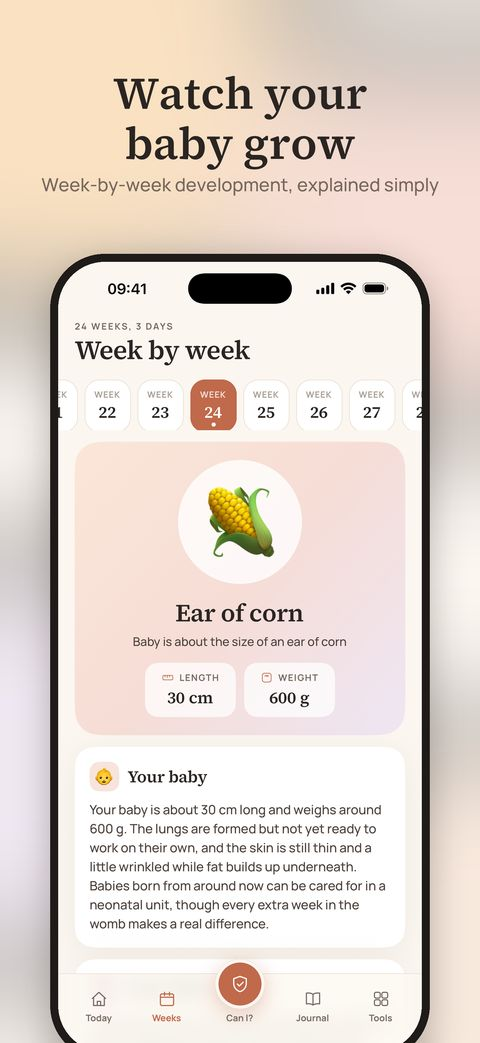
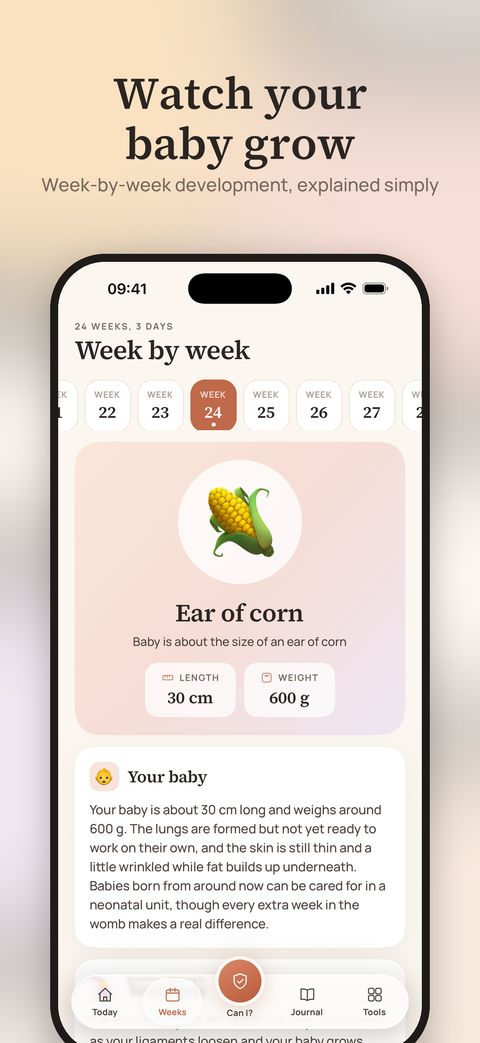
Website: landing page in six languages with screenshots

Changed region(s): [[0.1875, 0.9204, 0.8125, 1.0], [0.8438, 0.9511, 0.875, 0.9818], [0.125, 0.9511, 0.1562, 0.9818]]

diff --git a/docs/fr/index.html b/docs/fr/index.html
@@ -4,19 +4,60 @@
 <meta charset="utf-8">
 <meta name="viewport" content="width=device-width, initial-scale=1">
 <title>Marigold · Suivi de grossesse</title>
-<meta name="description" content="Marigold est un compagnon de grossesse serein et privé : un suivi semaine après semaine, une bibliothèque « Puis-je… ? » aux réponses sourcées, un guide des symptômes et des outils de suivi tout doux. Sans pub, sans compte.">
+<meta name="description" content="Une compagne de grossesse apaisante et privée : repères semaine par semaine, 270+ réponses sourcées à « Puis-je… ? », un guide des symptômes et des outils tout en douceur. Sans pub, sans compte.">
+<meta name="apple-itunes-app" content="app-id=6822443743">
+<meta property="og:type" content="website">
+<meta property="og:title" content="Marigold · Suivi de grossesse">
+<meta property="og:description" content="Une compagne de grossesse apaisante et privée : repères semaine par semaine, 270+ réponses sourcées à « Puis-je… ? », un guide des symptômes et des outils tout en douceur. Sans pub, sans compte.">
+<meta property="og:image" content="https://babybloom.kids/marigold/img/fr/hero.jpg">
 <link rel="icon" href="../icon-256.png">
+<link rel="apple-touch-icon" href="../icon-256.png">
 <link rel="stylesheet" href="../style.css">
 </head>
-<body>
-<div class="wrap">
-  <header><img src="../icon-256.png" alt="Icône de Marigold"><div><div class="brand">Marigold</div><div class="sub">Suivi de grossesse</div></div></header>
-  <nav><a href="privacy.html">Confidentialité</a><a href="terms.html">Conditions</a><a href="support.html">Assistance</a></nav>
+<body class="landing">
+<div class="wrap wide">
+  <header><a href="index.html"><img src="../icon-256.png" alt="Marigold"></a><div><div class="brand">Marigold</div><div class="sub">Suivi de grossesse</div></div></header>
+  <nav><a href="index.html">Accueil</a><a href="privacy.html">Confidentialité</a><a href="terms.html">Conditions</a><a href="support.html">Assistance</a></nav>
   <p class="langs"><a href="../index.html">English</a> · <a href="../tr/index.html">Türkçe</a> · <a href="../es/index.html">Español</a> · <a href="../de/index.html">Deutsch</a> · <strong>Français</strong> · <a href="../pt/index.html">Português</a></p>
-  <h1>Un compagnon serein pour les neuf prochains mois.</h1>
-  <p>Un suivi semaine après semaine, une bibliothèque de sécurité « Puis-je… ? » avec 270+ réponses sourcées, un guide des symptômes « Est-ce normal ? » et des outils de suivi tout doux — compteur de mouvements, minuteur de contractions, rendez-vous, journal du ventre et plus encore. Sans pub. Sans compte. Tes données restent sur ton téléphone.</p>
-  <p class="mute">Disponible en English, Türkçe, Español, Deutsch, Français et Português (Brasil). Marigold partage des informations générales, pas des conseils médicaux — suis toujours les recommandations de ta sage-femme ou de ton médecin.</p>
-  <footer>© 2026 Okan Berk Manavoğlu · <a href="mailto:support@babybloom.kids">support@babybloom.kids</a></footer>
+
+  <section class="hero">
+    <div class="hero-text">
+      <h1>Une compagne apaisante pour les neuf mois à venir.</h1>
+      <p class="lead">Des repères semaine par semaine, des réponses claires à « Puis-je… ? » avec de vraies sources et des outils tout doux pour chaque jour — le tout en privé, directement sur ton iPhone.</p>
+      <a class="store" href="https://apps.apple.com/app/id6822443743">Télécharger dans l’App Store</a>
+      <p class="mute">Gratuit · iPhone · Aucun compte requis</p>
+    </div>
+    <div class="phone"><img src="../img/fr/hero.jpg" alt="Écran de l’app Marigold" width="600" height="1304"></div>
+  </section>
+
+  <h2 class="center">Tout ce qu’il te faut, réuni en douceur</h2>
+  <div class="features">
+      <div class="feature"><div class="ficon">🌱</div><h3>Semaine après semaine</h3><p>La taille de ton bébé, ce qui se développe, ce que tu peux ressentir et trois conseils pratiques pour chaque semaine, de 1 à 42.</p></div>
+      <div class="feature"><div class="ficon">🛡</div><h3>Réponses à « Puis-je… ? »</h3><p>270+ aliments, médicaments, produits de beauté et activités — chacun avec un verdict clair, son explication et des liens vers les recommandations sur lesquelles il s’appuie.</p></div>
+      <div class="feature"><div class="ficon">🩺</div><h3>Est-ce normal ?</h3><p>55 symptômes courants expliqués avec calme, avec ce qui soulage et des signes clairs pour savoir quand appeler ta sage-femme, ton médecin ou les secours.</p></div>
+      <div class="feature"><div class="ficon">⏱</div><h3>Des outils tout doux</h3><p>Compteur de mouvements et minuteur de contractions avec les Activités en direct sur l’écran verrouillé, plus des widgets, rendez-vous, hydratation, vitamines et bien plus.</p></div>
+      <div class="feature"><div class="ficon">📔</div><h3>Un journal privé</h3><p>Photos de ton ventre, humeurs, notes et lettres à ton bébé. Aucun compte — ton journal ne quitte jamais ton téléphone.</p></div>
+      <div class="feature"><div class="ficon">🌍</div><h3>Adapté à ton pays</h3><p>En English, Türkçe, Español, Deutsch, Français et Português, avec des aliments locaux, les recommandations nationales et le numéro d’urgence de ton pays.</p></div>
+  </div>
+
+  <h2 class="center">De plus près</h2>
+  <div class="shots">
+      <img src="../img/fr/02-weeks.jpg" alt="Écran de l’app Marigold" loading="lazy" width="480" height="1043">
+      <img src="../img/fr/03-check.jpg" alt="Écran de l’app Marigold" loading="lazy" width="480" height="1043">
+      <img src="../img/fr/04-detail.jpg" alt="Écran de l’app Marigold" loading="lazy" width="480" height="1043">
+      <img src="../img/fr/05-tools.jpg" alt="Écran de l’app Marigold" loading="lazy" width="480" height="1043">
+      <img src="../img/fr/06-journal.jpg" alt="Écran de l’app Marigold" loading="lazy" width="480" height="1043">
+  </div>
+
+  <div class="grid2">
+    <div class="card"><h3>🔒 Privé dès la conception</h3><p>Ni publicité, ni statistiques, ni pistage, ni compte. Tout ce que tu saisis reste sur ton appareil. Les achats sont gérés par Apple, avec un identifiant anonyme pour les confirmer.</p></div>
+    <div class="card"><h3>✨ Marigold Plus — en option</h3><p>Les fonctions essentielles sont gratuites. Plus ajoute un rapport PDF prêt pour ton médecin, ton journal en livre souvenir et un collage de photos de ton ventre — en abonnement mensuel avec essai gratuit, ou avec le Pregnancy Pass en achat unique.</p></div>
+  </div>
+
+  <p class="card disclaimer">Marigold partage des informations générales issues des recommandations de santé publique. Ce n’est ni un avis médical ni un dispositif médical. Suis toujours les conseils de ta sage-femme ou de ton médecin et, en cas d’urgence, appelle le numéro d’urgence local.</p>
+  <p class="sister">Par les créateurs de Baby Bloom — un compagnon tout en douceur pour la vie avec ton nouveau-né. <a href="https://babybloom.kids/">Découvrir Baby Bloom →</a></p>
+
+  <footer>© 2026 Okan Berk Manavoğlu · <a href="privacy.html">Confidentialité</a> · <a href="terms.html">Conditions</a> · <a href="support.html">Assistance</a> · <a href="mailto:support@babybloom.kids">support@babybloom.kids</a></footer>
 </div>
 </body>
 </html>

diff --git a/docs/de/index.html b/docs/de/index.html
@@ -3,20 +3,61 @@
 <head>
 <meta charset="utf-8">
 <meta name="viewport" content="width=device-width, initial-scale=1">
-<title>Marigold · Schwangerschafts-Tracker</title>
-<meta name="description" content="Marigold ist eine ruhige, private Begleitung durch deine Schwangerschaft: Infos Woche für Woche, eine „Darf ich…?“-Sicherheitsbibliothek mit Quellen, ein Ratgeber zu Beschwerden und sanfte Tracker. Ohne Werbung, ohne Konto.">
+<title>Marigold · Schwangerschaft</title>
+<meta name="description" content="Deine ruhige, private Schwangerschaftsbegleitung: Infos Woche für Woche, 270+ Antworten mit Quellen auf „Darf ich …?“, ein Symptom-Ratgeber und sanfte Tracker. Keine Werbung, kein Konto.">
+<meta name="apple-itunes-app" content="app-id=6822443743">
+<meta property="og:type" content="website">
+<meta property="og:title" content="Marigold · Schwangerschaft">
+<meta property="og:description" content="Deine ruhige, private Schwangerschaftsbegleitung: Infos Woche für Woche, 270+ Antworten mit Quellen auf „Darf ich …?“, ein Symptom-Ratgeber und sanfte Tracker. Keine Werbung, kein Konto.">
+<meta property="og:image" content="https://babybloom.kids/marigold/img/de/hero.jpg">
 <link rel="icon" href="../icon-256.png">
+<link rel="apple-touch-icon" href="../icon-256.png">
 <link rel="stylesheet" href="../style.css">
 </head>
-<body>
-<div class="wrap">
-  <header><img src="../icon-256.png" alt="Marigold-Symbol"><div><div class="brand">Marigold</div><div class="sub">Schwangerschafts-Tracker</div></div></header>
-  <nav><a href="privacy.html">Datenschutz</a><a href="terms.html">Nutzungsbedingungen</a><a href="support.html">Support</a></nav>
+<body class="landing">
+<div class="wrap wide">
+  <header><a href="index.html"><img src="../icon-256.png" alt="Marigold"></a><div><div class="brand">Marigold</div><div class="sub">Schwangerschaft</div></div></header>
+  <nav><a href="index.html">Start</a><a href="privacy.html">Datenschutz</a><a href="terms.html">Nutzungsbedingungen</a><a href="support.html">Support</a></nav>
   <p class="langs"><a href="../index.html">English</a> · <a href="../tr/index.html">Türkçe</a> · <a href="../es/index.html">Español</a> · <strong>Deutsch</strong> · <a href="../fr/index.html">Français</a> · <a href="../pt/index.html">Português</a></p>
-  <h1>Eine ruhige Begleitung für die nächsten neun Monate.</h1>
-  <p>Infos Woche für Woche, eine „Darf ich…?“-Sicherheitsbibliothek mit 270+ Antworten samt Quellen, ein „Ist das normal?“-Ratgeber zu Beschwerden und sanfte Tracker – Kick-Zähler, Wehen-Timer, Termine, Babybauch-Tagebuch und mehr. Keine Werbung. Kein Konto. Deine Daten bleiben auf deinem Handy.</p>
-  <p class="mute">Verfügbar in English, Türkçe, Español, Deutsch, Français und Português (Brasil). Marigold bietet allgemeine Informationen, keine medizinische Beratung – folge immer dem Rat deiner Hebamme, deiner Ärztin oder deines Arztes.</p>
-  <footer>© 2026 Okan Berk Manavoğlu · <a href="mailto:support@babybloom.kids">support@babybloom.kids</a></footer>
+
+  <section class="hero">
+    <div class="hero-text">
+      <h1>Eine ruhige Begleitung für die nächsten neun Monate.</h1>
+      <p class="lead">Begleitung Woche für Woche, klare Antworten auf „Darf ich …?“ mit echten Quellen und sanfte Helfer für jeden Tag – alles privat, direkt auf deinem iPhone.</p>
+      <a class="store" href="https://apps.apple.com/app/id6822443743">Laden im App Store</a>
+      <p class="mute">Kostenlos nutzbar · iPhone · Kein Konto nötig</p>
+    </div>
+    <div class="phone"><img src="../img/de/hero.jpg" alt="Bildschirm der Marigold-App" width="600" height="1304"></div>
+  </section>
+
+  <h2 class="center">Alles, was du brauchst – sanft an einem Ort</h2>
+  <div class="features">
+      <div class="feature"><div class="ficon">🌱</div><h3>Woche für Woche</h3><p>Wie groß dein Baby ist, was sich gerade entwickelt, was du spüren könntest und drei praktische Tipps – für jede Woche von 1 bis 42.</p></div>
+      <div class="feature"><div class="ficon">🛡</div><h3>„Darf ich …?“ beantwortet</h3><p>270+ Lebensmittel, Medikamente, Beautyprodukte und Aktivitäten – jeweils mit klarer Einschätzung, Begründung und Links zu den Empfehlungen dahinter.</p></div>
+      <div class="feature"><div class="ficon">🩺</div><h3>Ist das normal?</h3><p>55 häufige Beschwerden ruhig erklärt – mit dem, was hilft, und klaren Zeichen, wann du deine Hebamme, deine Arztpraxis oder den Notruf anrufen solltest.</p></div>
+      <div class="feature"><div class="ficon">⏱</div><h3>Sanfte Helfer</h3><p>Kick-Zähler und Wehen-Timer mit Live-Aktivitäten auf dem Sperrbildschirm, dazu Widgets, Termine, Wasser, Vitamine und mehr.</p></div>
+      <div class="feature"><div class="ficon">📔</div><h3>Ein privates Tagebuch</h3><p>Bauchfotos, Stimmungen, Notizen und Briefe an dein Baby. Es gibt kein Konto – dein Tagebuch verlässt nie dein Handy.</p></div>
+      <div class="feature"><div class="ficon">🌍</div><h3>Passend zu deinem Land</h3><p>Auf English, Türkçe, Español, Deutsch, Français und Português – mit regionalen Lebensmitteln, nationalen Empfehlungen und der Notrufnummer deines Landes.</p></div>
+  </div>
+
+  <h2 class="center">Ein genauerer Blick</h2>
+  <div class="shots">
+      <img src="../img/de/02-weeks.jpg" alt="Bildschirm der Marigold-App" loading="lazy" width="480" height="1043">
+      <img src="../img/de/03-check.jpg" alt="Bildschirm der Marigold-App" loading="lazy" width="480" height="1043">
+      <img src="../img/de/04-detail.jpg" alt="Bildschirm der Marigold-App" loading="lazy" width="480" height="1043">
+      <img src="../img/de/05-tools.jpg" alt="Bildschirm der Marigold-App" loading="lazy" width="480" height="1043">
+      <img src="../img/de/06-journal.jpg" alt="Bildschirm der Marigold-App" loading="lazy" width="480" height="1043">
+  </div>
+
+  <div class="grid2">
+    <div class="card"><h3>🔒 Privat von Grund auf</h3><p>Keine Werbung, keine Analysen, kein Tracking und kein Konto. Alles, was du eingibst, bleibt auf deinem Gerät. Käufe wickelt Apple ab; zur Bestätigung dient eine anonyme ID.</p></div>
+    <div class="card"><h3>✨ Marigold Plus – optional</h3><p>Die Grundfunktionen sind kostenlos. Plus ergänzt einen PDF-Bericht für deinen Arzttermin, dein Tagebuch als Erinnerungsbuch und eine Collage deiner Bauchfotos – monatlich mit kostenloser Testphase oder einmalig als Pregnancy Pass.</p></div>
+  </div>
+
+  <p class="card disclaimer">Marigold bietet allgemeine Informationen auf Grundlage öffentlicher Gesundheitsempfehlungen. Es ist keine medizinische Beratung und kein Medizinprodukt. Folge immer den Empfehlungen deiner Hebamme oder deiner Ärztin bzw. deines Arztes und wähle im Notfall die örtliche Notrufnummer.</p>
+  <p class="sister">Von den Machern von Baby Bloom – eine sanfte Begleitung für das Leben mit deinem Neugeborenen. <a href="https://babybloom.kids/">Baby Bloom entdecken →</a></p>
+
+  <footer>© 2026 Okan Berk Manavoğlu · <a href="privacy.html">Datenschutz</a> · <a href="terms.html">Nutzungsbedingungen</a> · <a href="support.html">Support</a> · <a href="mailto:support@babybloom.kids">support@babybloom.kids</a></footer>
 </div>
 </body>
 </html>

diff --git a/docs/pt/index.html b/docs/pt/index.html
@@ -3,20 +3,61 @@
 <head>
 <meta charset="utf-8">
 <meta name="viewport" content="width=device-width, initial-scale=1">
-<title>Marigold · Acompanhamento da gravidez</title>
-<meta name="description" content="O Marigold é uma companhia tranquila e privada para a sua gravidez: orientação semana a semana, uma biblioteca de segurança “Posso…?” com fontes, um guia de sintomas e registros leves. Sem anúncios, sem conta.">
+<title>Marigold · Gravidez e Bebê</title>
+<meta name="description" content="Uma companhia tranquila e privada na gravidez: orientações semana a semana, 270+ respostas com fontes para “Posso…?”, um guia de sintomas e ferramentas gentis. Sem anúncios, sem conta.">
+<meta name="apple-itunes-app" content="app-id=6822443743">
+<meta property="og:type" content="website">
+<meta property="og:title" content="Marigold · Gravidez e Bebê">
+<meta property="og:description" content="Uma companhia tranquila e privada na gravidez: orientações semana a semana, 270+ respostas com fontes para “Posso…?”, um guia de sintomas e ferramentas gentis. Sem anúncios, sem conta.">
+<meta property="og:image" content="https://babybloom.kids/marigold/img/pt/hero.jpg">
 <link rel="icon" href="../icon-256.png">
+<link rel="apple-touch-icon" href="../icon-256.png">
 <link rel="stylesheet" href="../style.css">
 </head>
-<body>
-<div class="wrap">
-  <header><img src="../icon-256.png" alt="Ícone do Marigold"><div><div class="brand">Marigold</div><div class="sub">Acompanhamento da gravidez</div></div></header>
-  <nav><a href="privacy.html">Privacidade</a><a href="terms.html">Termos</a><a href="support.html">Suporte</a></nav>
+<body class="landing">
+<div class="wrap wide">
+  <header><a href="index.html"><img src="../icon-256.png" alt="Marigold"></a><div><div class="brand">Marigold</div><div class="sub">Gravidez e Bebê</div></div></header>
+  <nav><a href="index.html">Início</a><a href="privacy.html">Privacidade</a><a href="terms.html">Termos</a><a href="support.html">Suporte</a></nav>
   <p class="langs"><a href="../index.html">English</a> · <a href="../tr/index.html">Türkçe</a> · <a href="../es/index.html">Español</a> · <a href="../de/index.html">Deutsch</a> · <a href="../fr/index.html">Français</a> · <strong>Português</strong></p>
-  <h1>Uma companhia tranquila para os próximos nove meses.</h1>
-  <p>Orientação semana a semana, uma biblioteca de segurança “Posso…?” com 270+ respostas com fontes, um guia de sintomas “Isso é normal?” e registros leves — contador de chutes, cronômetro de contrações, consultas, diário da barriga e muito mais. Sem anúncios. Sem conta. Seus dados ficam no seu celular.</p>
-  <p class="mute">Disponível em English, Türkçe, Español, Deutsch, Français e Português (Brasil). O Marigold compartilha informações gerais, não aconselhamento médico — siga sempre as orientações do seu médico ou da sua obstetra.</p>
-  <footer>© 2026 Okan Berk Manavoğlu · <a href="mailto:support@babybloom.kids">support@babybloom.kids</a></footer>
+
+  <section class="hero">
+    <div class="hero-text">
+      <h1>Uma companhia tranquila para os próximos nove meses.</h1>
+      <p class="lead">Orientações semana a semana, respostas claras para “Posso…?” com fontes reais e ferramentas gentis para o dia a dia — tudo privado, direto no seu iPhone.</p>
+      <a class="store" href="https://apps.apple.com/app/id6822443743">Baixar na App Store</a>
+      <p class="mute">Grátis · iPhone · Sem precisar de conta</p>
+    </div>
+    <div class="phone"><img src="../img/pt/hero.jpg" alt="Tela do app Marigold" width="600" height="1304"></div>
+  </section>
+
+  <h2 class="center">Tudo o que você procura, em um só lugar</h2>
+  <div class="features">
+      <div class="feature"><div class="ficon">🌱</div><h3>Semana a semana</h3><p>O tamanho do seu bebê, o que está se desenvolvendo, o que você pode sentir e três dicas práticas para cada semana, da 1 à 42.</p></div>
+      <div class="feature"><div class="ficon">🛡</div><h3>“Posso…?” respondido</h3><p>270+ alimentos, medicamentos, produtos de beleza e atividades — cada um com um veredito claro, o porquê e links para as orientações em que se baseia.</p></div>
+      <div class="feature"><div class="ficon">🩺</div><h3>Isso é normal?</h3><p>55 sintomas comuns explicados com calma, com o que ajuda e sinais claros de quando ligar para sua obstetra, seu médico ou o serviço de emergência.</p></div>
+      <div class="feature"><div class="ficon">⏱</div><h3>Ferramentas gentis</h3><p>Contador de chutes e cronômetro de contrações com Atividades ao Vivo na Tela Bloqueada, além de widgets, consultas, água, vitaminas e muito mais.</p></div>
+      <div class="feature"><div class="ficon">📔</div><h3>Um diário só seu</h3><p>Fotos da barriga, humor, anotações e cartas para o seu bebê. Não há conta — seu diário nunca sai do seu celular.</p></div>
+      <div class="feature"><div class="ficon">🌍</div><h3>Feito para onde você vive</h3><p>Em English, Türkçe, Español, Deutsch, Français e Português, com alimentos locais, orientações nacionais e o número de emergência do seu país.</p></div>
+  </div>
+
+  <h2 class="center">Veja de perto</h2>
+  <div class="shots">
+      <img src="../img/pt/02-weeks.jpg" alt="Tela do app Marigold" loading="lazy" width="480" height="1043">
+      <img src="../img/pt/03-check.jpg" alt="Tela do app Marigold" loading="lazy" width="480" height="1043">
+      <img src="../img/pt/04-detail.jpg" alt="Tela do app Marigold" loading="lazy" width="480" height="1043">
+      <img src="../img/pt/05-tools.jpg" alt="Tela do app Marigold" loading="lazy" width="480" height="1043">
+      <img src="../img/pt/06-journal.jpg" alt="Tela do app Marigold" loading="lazy" width="480" height="1043">
+  </div>
+
+  <div class="grid2">
+    <div class="card"><h3>🔒 Privacidade desde a concepção</h3><p>Sem anúncios, sem análises, sem rastreamento e sem conta. Tudo o que você registra fica no seu aparelho. As compras são processadas pela Apple, com um ID anônimo para confirmá-las.</p></div>
+    <div class="card"><h3>✨ Marigold Plus — opcional</h3><p>Os recursos principais são gratuitos. O Plus adiciona um relatório em PDF pronto para o médico, seu diário como um livro de recordação e uma colagem com fotos da barriga — mensal com teste grátis ou o Pregnancy Pass, com pagamento único.</p></div>
+  </div>
+
+  <p class="card disclaimer">O Marigold reúne informações gerais de orientações de saúde pública. Não é aconselhamento médico nem um dispositivo médico. Siga sempre as orientações da sua obstetra ou do seu médico e, em caso de emergência, ligue para o número de emergência local.</p>
+  <p class="sister">Dos criadores do Baby Bloom — uma companhia gentil para a vida com seu recém-nascido. <a href="https://babybloom.kids/">Conheça o Baby Bloom →</a></p>
+
+  <footer>© 2026 Okan Berk Manavoğlu · <a href="privacy.html">Privacidade</a> · <a href="terms.html">Termos</a> · <a href="support.html">Suporte</a> · <a href="mailto:support@babybloom.kids">support@babybloom.kids</a></footer>
 </div>
 </body>
 </html>

diff --git a/docs/es/index.html b/docs/es/index.html
@@ -3,20 +3,61 @@
 <head>
 <meta charset="utf-8">
 <meta name="viewport" content="width=device-width, initial-scale=1">
-<title>Marigold · Seguimiento del embarazo</title>
-<meta name="description" content="Marigold es una compañera de embarazo tranquila y privada: guía semana a semana, una biblioteca de seguridad “¿Puedo…?” con fuentes, una guía de síntomas y herramientas sencillas. Sin anuncios ni cuenta.">
+<title>Marigold · Embarazo</title>
+<meta name="description" content="Una compañía tranquila y privada para tu embarazo: guía semana a semana, 270+ respuestas con fuentes a “¿Puedo…?”, una guía de síntomas y herramientas sencillas. Sin anuncios, sin cuenta.">
+<meta name="apple-itunes-app" content="app-id=6822443743">
+<meta property="og:type" content="website">
+<meta property="og:title" content="Marigold · Embarazo">
+<meta property="og:description" content="Una compañía tranquila y privada para tu embarazo: guía semana a semana, 270+ respuestas con fuentes a “¿Puedo…?”, una guía de síntomas y herramientas sencillas. Sin anuncios, sin cuenta.">
+<meta property="og:image" content="https://babybloom.kids/marigold/img/es/hero.jpg">
 <link rel="icon" href="../icon-256.png">
+<link rel="apple-touch-icon" href="../icon-256.png">
 <link rel="stylesheet" href="../style.css">
 </head>
-<body>
-<div class="wrap">
-  <header><img src="../icon-256.png" alt="Icono de Marigold"><div><div class="brand">Marigold</div><div class="sub">Seguimiento del embarazo</div></div></header>
-  <nav><a href="privacy.html">Privacidad</a><a href="terms.html">Condiciones</a><a href="support.html">Ayuda</a></nav>
+<body class="landing">
+<div class="wrap wide">
+  <header><a href="index.html"><img src="../icon-256.png" alt="Marigold"></a><div><div class="brand">Marigold</div><div class="sub">Embarazo</div></div></header>
+  <nav><a href="index.html">Inicio</a><a href="privacy.html">Privacidad</a><a href="terms.html">Condiciones</a><a href="support.html">Ayuda</a></nav>
   <p class="langs"><a href="../index.html">English</a> · <a href="../tr/index.html">Türkçe</a> · <strong>Español</strong> · <a href="../de/index.html">Deutsch</a> · <a href="../fr/index.html">Français</a> · <a href="../pt/index.html">Português</a></p>
-  <h1>Una compañera tranquila para los próximos nueve meses.</h1>
-  <p>Guía semana a semana, una biblioteca de seguridad “¿Puedo…?” con 270+ respuestas con fuentes, una guía de síntomas “¿Es normal?” y herramientas sencillas: contador de patadas, cronómetro de contracciones, citas, diario de fotos de la barriga y mucho más. Sin anuncios. Sin cuenta. Tus datos se quedan en tu teléfono.</p>
-  <p class="mute">Disponible en English, Türkçe, Español, Deutsch, Français y Português (Brasil). Marigold ofrece información general, no consejo médico: sigue siempre las indicaciones de tu matrona o de tu médico.</p>
-  <footer>© 2026 Okan Berk Manavoğlu · <a href="mailto:support@babybloom.kids">support@babybloom.kids</a></footer>
+
+  <section class="hero">
+    <div class="hero-text">
+      <h1>Una compañía tranquila para los próximos nueve meses.</h1>
+      <p class="lead">Guía semana a semana, respuestas claras a “¿Puedo…?” con fuentes reales y herramientas amables para cada día — todo privado, directamente en tu iPhone.</p>
+      <a class="store" href="https://apps.apple.com/app/id6822443743">Descargar en el App Store</a>
+      <p class="mute">Gratis · iPhone · Sin necesidad de cuenta</p>
+    </div>
+    <div class="phone"><img src="../img/es/hero.jpg" alt="Pantalla de la app Marigold" width="600" height="1304"></div>
+  </section>
+
+  <h2 class="center">Todo lo que buscas, en un solo lugar</h2>
+  <div class="features">
+      <div class="feature"><div class="ficon">🌱</div><h3>Semana a semana</h3><p>El tamaño de tu bebé, lo que se está desarrollando, lo que puedes sentir y tres consejos prácticos para cada semana, de la 1 a la 42.</p></div>
+      <div class="feature"><div class="ficon">🛡</div><h3>“¿Puedo…?”, resuelto</h3><p>270+ alimentos, medicamentos, productos de belleza y actividades — cada uno con un veredicto claro, el porqué y enlaces a las recomendaciones en las que se basa.</p></div>
+      <div class="feature"><div class="ficon">🩺</div><h3>¿Es normal?</h3><p>55 síntomas frecuentes explicados con calma, con lo que ayuda y señales claras de cuándo llamar a tu matrona, a tu médico o a emergencias.</p></div>
+      <div class="feature"><div class="ficon">⏱</div><h3>Herramientas amables</h3><p>Contador de patadas y cronómetro de contracciones con Actividades en directo en la pantalla de bloqueo, además de widgets, citas, agua, vitaminas y más.</p></div>
+      <div class="feature"><div class="ficon">📔</div><h3>Un diario privado</h3><p>Fotos de tu barriga, estados de ánimo, notas y cartas a tu bebé. No hay cuenta: tu diario nunca sale de tu teléfono.</p></div>
+      <div class="feature"><div class="ficon">🌍</div><h3>Pensada para donde vives</h3><p>En English, Türkçe, Español, Deutsch, Français y Português, con alimentos locales, recomendaciones nacionales y el número de emergencias de tu país.</p></div>
+  </div>
+
+  <h2 class="center">Un vistazo de cerca</h2>
+  <div class="shots">
+      <img src="../img/es/02-weeks.jpg" alt="Pantalla de la app Marigold" loading="lazy" width="480" height="1043">
+      <img src="../img/es/03-check.jpg" alt="Pantalla de la app Marigold" loading="lazy" width="480" height="1043">
+      <img src="../img/es/04-detail.jpg" alt="Pantalla de la app Marigold" loading="lazy" width="480" height="1043">
+      <img src="../img/es/05-tools.jpg" alt="Pantalla de la app Marigold" loading="lazy" width="480" height="1043">
+      <img src="../img/es/06-journal.jpg" alt="Pantalla de la app Marigold" loading="lazy" width="480" height="1043">
+  </div>
+
+  <div class="grid2">
+    <div class="card"><h3>🔒 Privada desde el diseño</h3><p>Sin anuncios, sin analíticas, sin rastreo y sin cuenta. Todo lo que registras se queda en tu dispositivo. Apple gestiona las compras, con un ID anónimo para confirmarlas.</p></div>
+    <div class="card"><h3>✨ Marigold Plus — opcional</h3><p>Las funciones principales son gratuitas. Plus añade un informe PDF listo para tu médico, tu diario como libro de recuerdo y un collage de fotos de tu barriga — mensual con prueba gratuita o con el Pregnancy Pass de pago único.</p></div>
+  </div>
+
+  <p class="card disclaimer">Marigold ofrece información general basada en recomendaciones de salud pública. No es consejo médico ni un dispositivo médico. Sigue siempre las indicaciones de tu matrona o de tu médico y, en caso de emergencia, llama al número de emergencias local.</p>
+  <p class="sister">De los creadores de Baby Bloom — una compañía amable para la vida con tu recién nacido. <a href="https://babybloom.kids/">Descubre Baby Bloom →</a></p>
+
+  <footer>© 2026 Okan Berk Manavoğlu · <a href="privacy.html">Privacidad</a> · <a href="terms.html">Condiciones</a> · <a href="support.html">Ayuda</a> · <a href="mailto:support@babybloom.kids">support@babybloom.kids</a></footer>
 </div>
 </body>
 </html>
